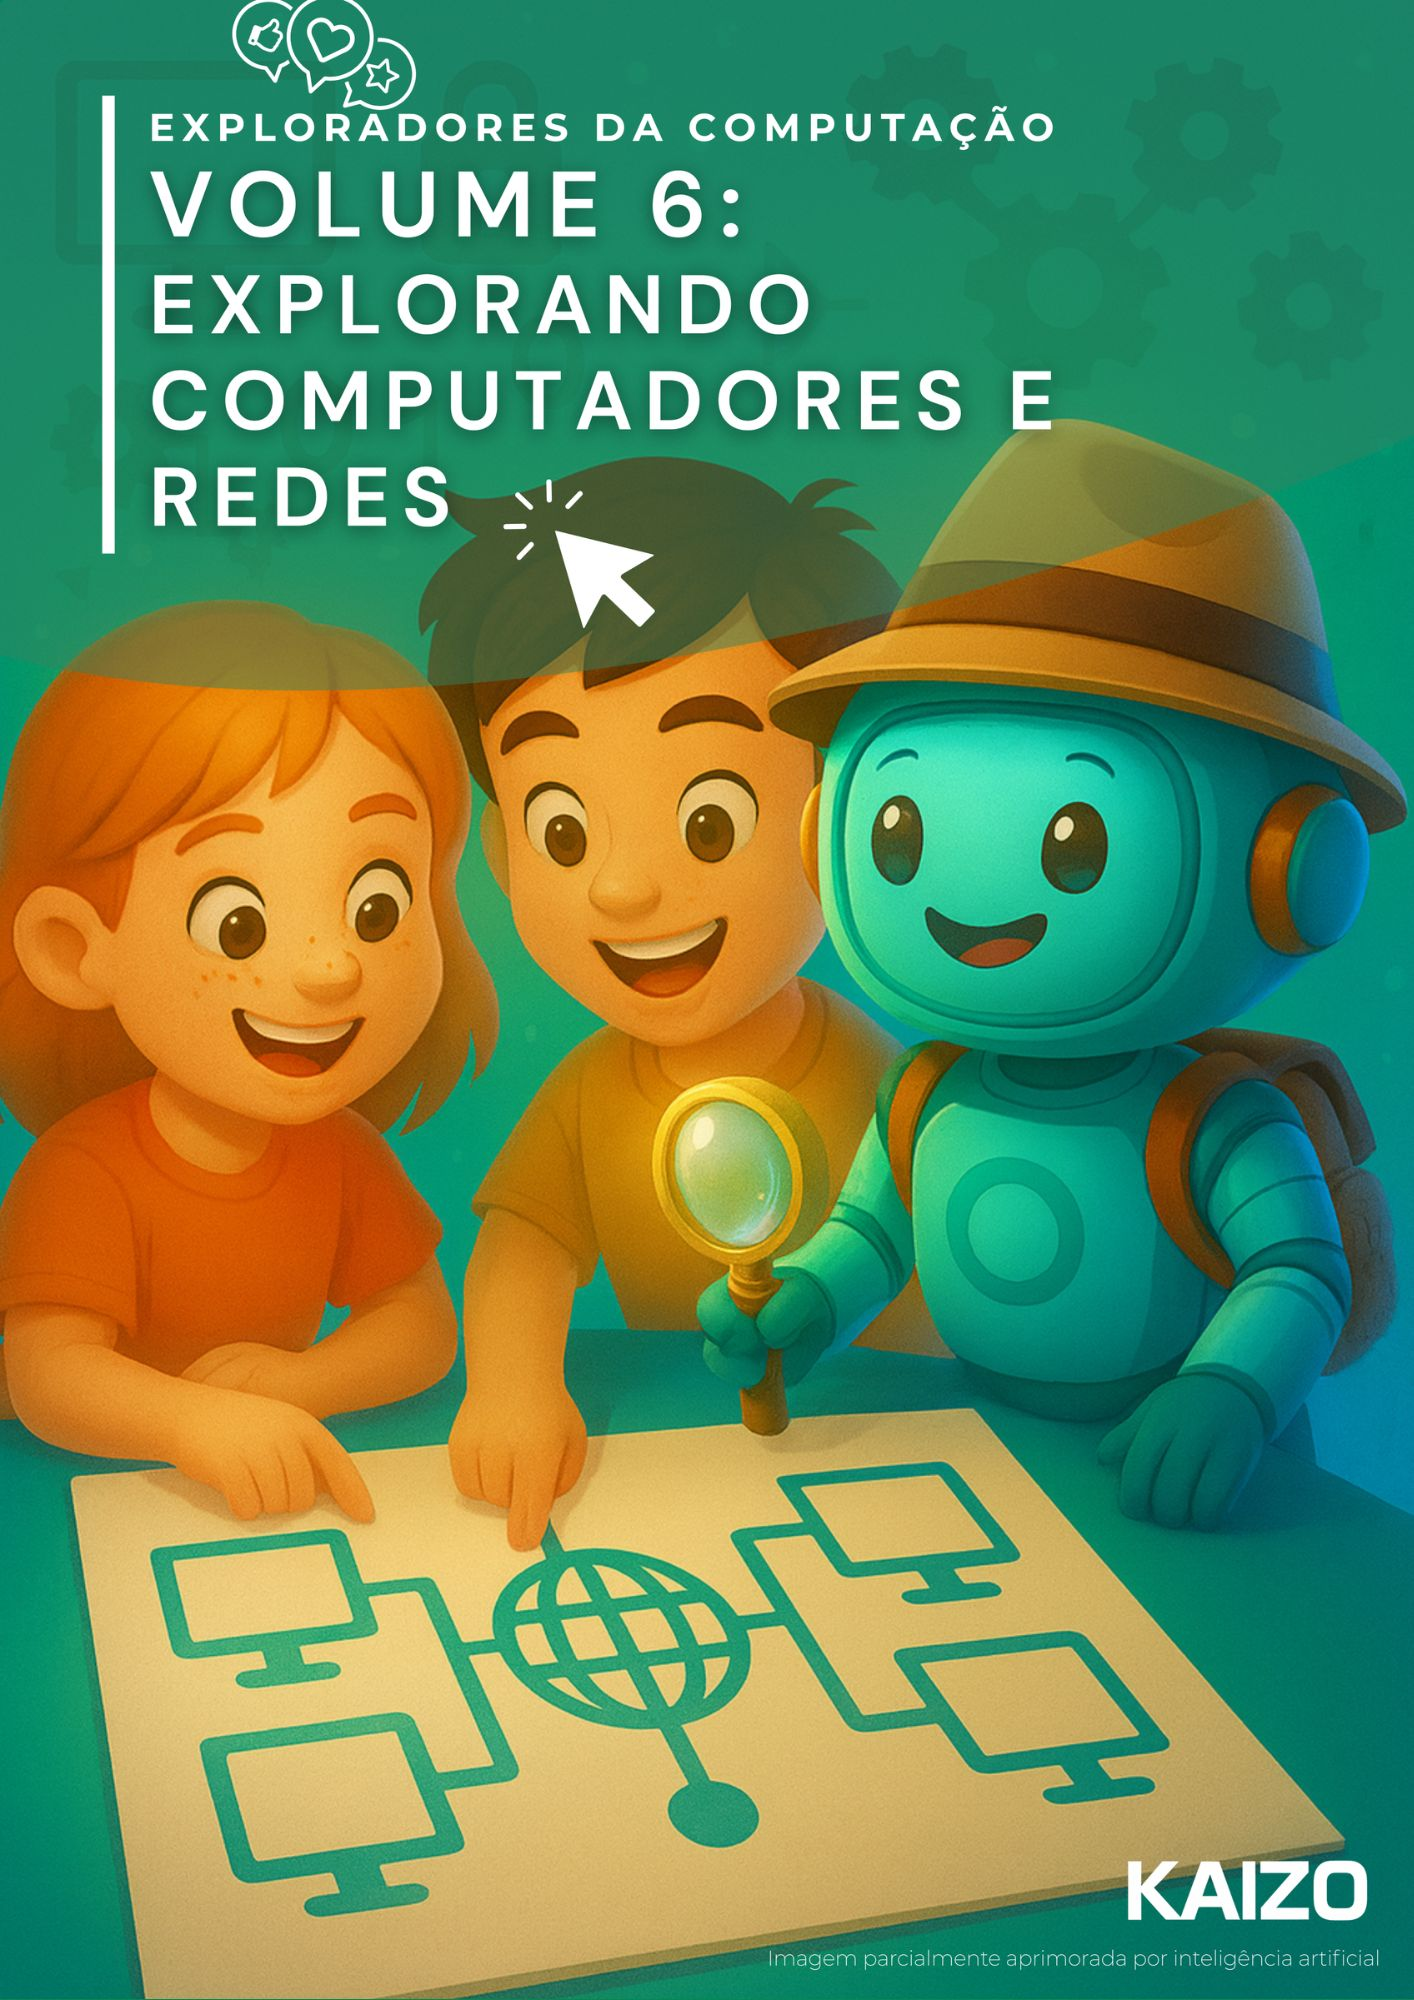
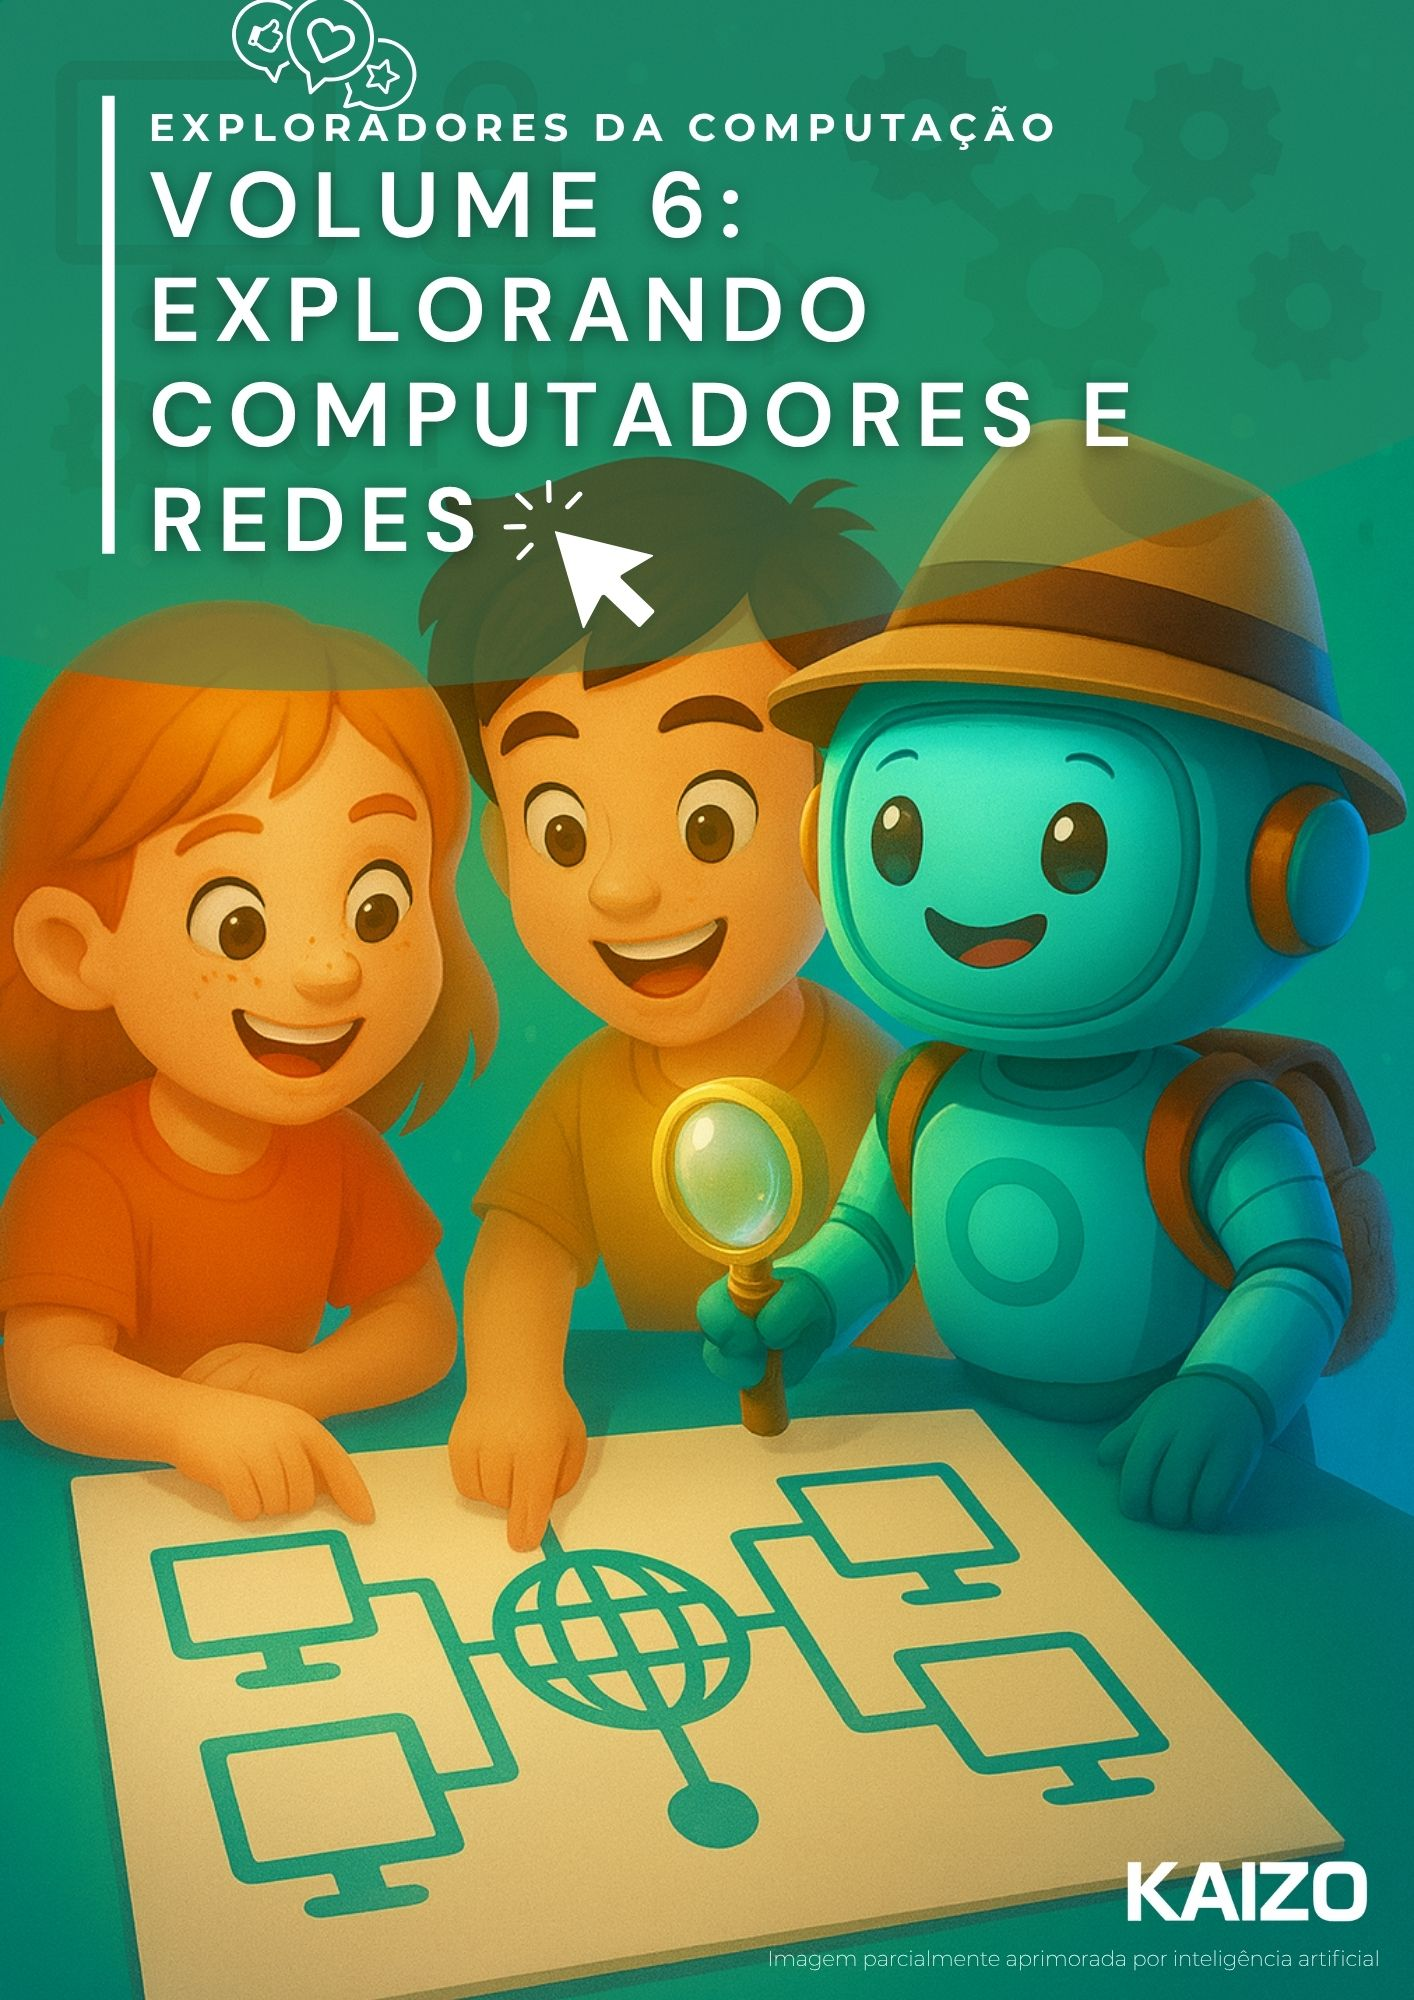
collectstatic dos ajustes

diff --git a/staticfiles/css/kaizo_main.css b/staticfiles/css/kaizo_main.css
@@ -110,7 +110,7 @@ nav {
 }
 
 .hero-content h1 {
-    font-size: 3.2rem;
+    font-size: 2rem;
     font-weight: 800;
     line-height: 1.2;
     margin-bottom: 16px;
@@ -182,7 +182,7 @@ nav {
 }
 
 .section-title h2 {
-    font-size: 2.5rem;
+    font-size: 2rem;
     font-weight: 700;
     margin-bottom: 8px;
 }
@@ -703,6 +703,7 @@ footer {
 @media (max-width: 768px) {
     .hero {
         /* Faz o hero ficar com 1 coluna em vez de 2 */
+        padding: 40px 0px;
         grid-template-columns: 1fr;
         text-align: center;
     }
@@ -746,7 +747,7 @@ footer {
     }
 
     .hero-animation {
-        height: 300px; /* Reduz a altura de 500px para 300px (ou auto) */
+        height: 340px; /* Reduz a altura de 500px para 300px (ou auto) */
     }
 
     
@@ -838,6 +839,10 @@ footer {
         padding: 12px 30px;
         font-size: 1rem;
         width: 80%; /* Ocupa 80% da largura do menu */
+    }
+
+    .features-swiper {
+        width: 80%;
     }
 
 }
